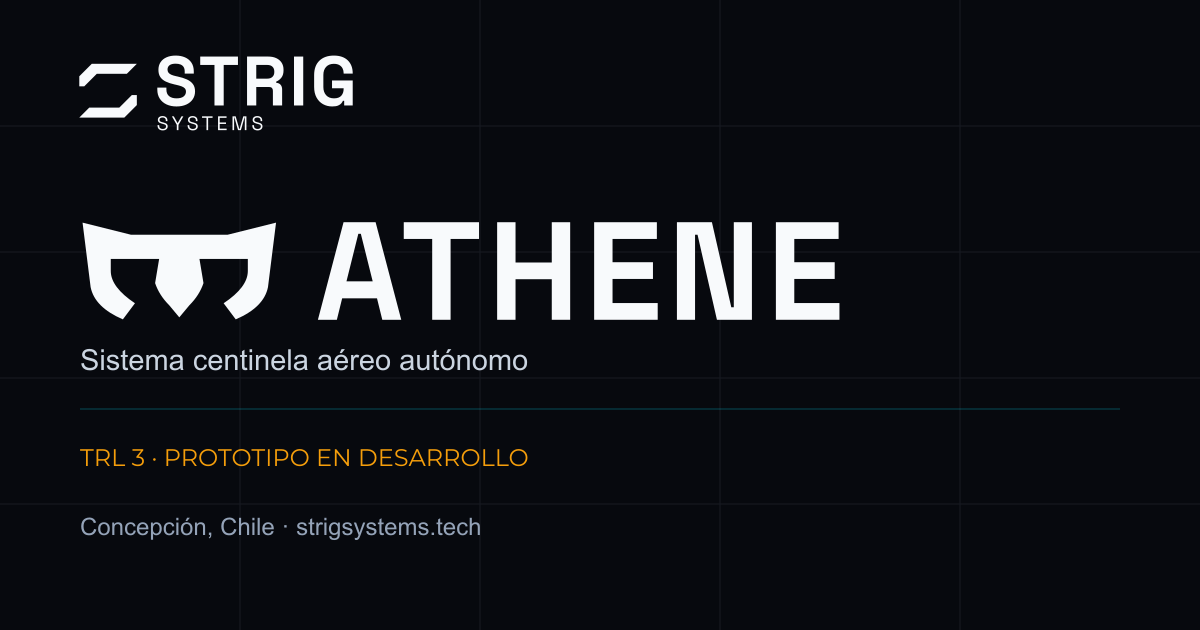
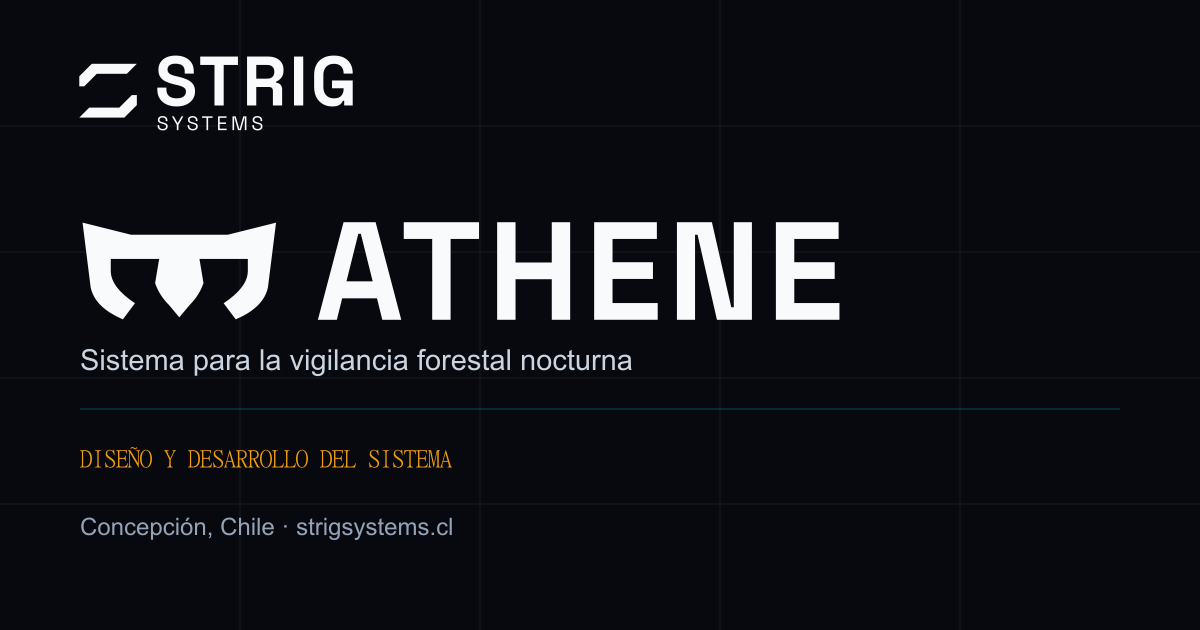
feat(web): publish Athene operating concept and clear project status

Changed region(s): [[0.1542, 0.5429, 0.5242, 0.6032], [0.0617, 0.6937, 0.4317, 0.754], [0.37, 0.8143, 0.4008, 0.8746]]

diff --git a/index.html b/index.html
@@ -19,7 +19,7 @@
   <meta property="og:image" content="https://strigsystems.cl/assets/img/brand/strig-social.png">
   <meta property="og:image:width" content="1200">
   <meta property="og:image:height" content="630">
-  <meta property="og:image:alt" content="Strig Systems · Athene · TRL 3 · Prototipo en desarrollo">
+  <meta property="og:image:alt" content="Strig Systems · Athene · Desarrollo experimental">
 
   <!-- Twitter Card -->
   <meta name="twitter:card" content="summary_large_image">
@@ -35,7 +35,7 @@
   <link rel="preconnect" href="https://fonts.gstatic.com" crossorigin>
   <link href="https://fonts.googleapis.com/css2?family=Outfit:wght@300;400;500;600;700&family=Space+Grotesk:wght@400;500;600;700&family=JetBrains+Mono:wght@400;500;600;700&display=swap" rel="stylesheet">
 
-  <link rel="stylesheet" href="styles.css?v=2.4.5">
+  <link rel="stylesheet" href="styles.css?v=2.4.8">
 
   <!-- Umami Analytics (Privacy-First & Cookie-less) -->
   <script defer src="https://cloud.umami.is/script.js" data-website-id="aa979513-3790-4797-99e5-03d4a57d74ee"></script>
@@ -118,7 +118,7 @@
           <!-- Hero Subtitle -->
           <p class="hero-subtitle" data-i18n="h_desc">Athene es un sistema en desarrollo que utiliza plataformas aéreas autónomas con supervisión humana para apoyar la vigilancia forestal nocturna. Busca detectar presencia de personas e indicios de incendio mediante análisis térmico a bordo y revisión humana de las alertas.</p>
 
-          <p class="hero-status" data-i18n="h_status">Desarrollo experimental · TRL 3</p>
+          <p class="hero-status" data-i18n="h_status">Desarrollo experimental</p>
 
           <!-- Hero Actions -->
           <div class="hero-actions">
@@ -138,27 +138,34 @@
         </div>
         <figure class="concept-panel glass-panel">
           <div class="concept-panel-heading">
-            <span class="concept-kind" data-i18n="h_visual_tag">ARQUITECTURA CONCEPTUAL</span>
+            <span class="concept-kind" data-i18n="h_visual_tag">CONCEPTO DE FUNCIONAMIENTO</span>
             <span class="concept-reference" aria-hidden="true">ATHENE // 01</span>
           </div>
           <h2 class="concept-title" data-i18n="h_visual_title">Un sistema. Tres funciones conectadas.</h2>
-          <img class="concept-diagram" src="assets/img/tech/athene-architecture.svg?v=2.4.3" width="720" height="460" alt="" decoding="async">
+          <div class="concept-scene">
+            <img class="concept-diagram" src="assets/img/tech/athene-concept-1200.webp" width="1200" height="896" alt="" decoding="async">
+            <svg class="concept-scene-overlay" viewBox="0 0 2400 1792" aria-hidden="true" focusable="false">
+              <defs><marker id="concept-arrow-hero" viewBox="0 0 10 10" refX="8" refY="5" markerWidth="5" markerHeight="5" orient="auto"><path d="M2 1 8 5 2 9" fill="none" stroke="#68d7e4" stroke-width="1.6"/></marker></defs>
+              <path class="concept-information-link" d="M2030 734V816Q2030 845 2001 845H1899Q1870 845 1870 874V1017" marker-end="url(#concept-arrow-hero)"/>
+              <g class="concept-scene-markers"><circle cx="540" cy="770" r="44"/><text x="540" y="790">01</text><circle cx="1755" cy="322" r="44"/><text x="1755" y="342">02</text><circle cx="1610" cy="1120" r="44"/><text x="1610" y="1140">03</text></g>
+            </svg>
+          </div>
           <ol class="concept-flow">
             <li><span class="concept-step" aria-hidden="true">01</span><span data-i18n="h_flow_1">Observación aérea</span></li>
             <li><span class="concept-step" aria-hidden="true">02</span><span data-i18n="h_flow_2">Análisis a bordo</span></li>
             <li><span class="concept-step" aria-hidden="true">03</span><span data-i18n="h_flow_3">Revisión humana</span></li>
           </ol>
-          <p class="concept-delivery" data-i18n="h_visual_delivery">Imágenes y alertas para el operador</p>
-          <figcaption data-i18n="h_visual_caption">Ilustración conceptual del flujo de observación, análisis a bordo y revisión humana. No representa el diseño de Noctua ni resultados de pruebas.</figcaption>
+          <p class="concept-delivery" data-i18n="h_visual_delivery">Detección de personas y anomalías térmicas, con revisión humana.</p>
+          <figcaption data-i18n="h_visual_caption">Ilustración generada con IA: aeronave genérica e imágenes térmicas sintéticas. No representa el diseño de Noctua ni resultados de pruebas.</figcaption>
         </figure>
       </section>
 
       <section class="project-stages" aria-labelledby="project-stages-title">
         <h2 id="project-stages-title" class="section-kicker" data-i18n="h_stage_label">ESTADO DEL PROYECTO</h2>
         <ol class="project-stages-grid">
-          <li><h3 data-i18n="h_stage_now">Hoy · TRL 3</h3><p data-i18n="h_stage_now_desc">Preparación de integración y primeras pruebas.</p></li>
-          <li><h3 data-i18n="h_stage_next">Próximo · Demostración 2027</h3><p data-i18n="h_stage_next_desc">Evaluación conjunta de los componentes.</p></li>
-          <li><h3 data-i18n="h_stage_future">Evolución · Aeronave y estación</h3><p data-i18n="h_stage_future_desc">Noctua y Nest como desarrollos futuros.</p></li>
+          <li><h3 data-i18n="h_stage_now">Hoy · Diseño y desarrollo</h3><p data-i18n="h_stage_now_desc">Definición de arquitectura y desarrollo de software.</p></li>
+          <li><h3 data-i18n="h_stage_next">Siguiente hito · Integración y pruebas</h3><p data-i18n="h_stage_next_desc">Evaluar el funcionamiento conjunto de los componentes.</p></li>
+          <li><h3 data-i18n="h_stage_future">Evolución · Noctua y Nest</h3><p data-i18n="h_stage_future_desc">Aeronave y estación previstas para la evolución del sistema.</p></li>
         </ol>
       </section>
 
@@ -518,7 +525,7 @@
 
         <div class="brief-paper-lead">
           <h2 id="brief-doc-title" class="brief-h1" data-i18n="eb_h1">Observación aérea para la vigilancia forestal nocturna</h2>
-          <p class="brief-summary" data-i18n="eb_summary">Athene es un sistema en desarrollo experimental (TRL 3 declarado) para apoyar la vigilancia forestal nocturna con plataformas aéreas autónomas y supervisión humana. Estamos preparando la integración y las primeras pruebas.</p>
+          <p class="brief-summary" data-i18n="eb_summary">Athene es un sistema en desarrollo experimental para apoyar la vigilancia forestal nocturna con plataformas aéreas autónomas y supervisión humana. Estamos preparando la integración y las primeras pruebas.</p>
         </div>
 
         <div class="brief-paper-grid">
@@ -564,6 +571,6 @@
     </div>
   </div>
 
-  <script src="script.js?v=2.4.5"></script>
+  <script src="script.js?v=2.4.8"></script>
 </body>
 </html>

diff --git a/script.js b/script.js
@@ -39,22 +39,22 @@ const translations = {
     h_nav_cta: "Contactar",
 
     // Hero Section
-    h_visual_tag: "ARQUITECTURA CONCEPTUAL",
+    h_visual_tag: "CONCEPTO DE FUNCIONAMIENTO",
     h_visual_title: "Un sistema. Tres funciones conectadas.",
-    h_visual_caption: "Ilustración conceptual del flujo de observación, análisis a bordo y revisión humana. No representa el diseño de Noctua ni resultados de pruebas.",
-    h_visual_delivery: "Imágenes y alertas para el operador",
+    h_visual_caption: "Ilustración generada con IA: aeronave genérica e imágenes térmicas sintéticas. No representa el diseño de Noctua ni resultados de pruebas.",
+    h_visual_delivery: "Detección de personas y anomalías térmicas, con revisión humana.",
     h_flow_1: "Observación aérea",
     h_flow_2: "Análisis a bordo",
     h_flow_3: "Revisión humana",
     h_stage_label: "ESTADO DEL PROYECTO",
-    h_stage_now: "Hoy · TRL 3",
-    h_stage_now_desc: "Preparación de integración y primeras pruebas.",
-    h_stage_next: "Próximo · Demostración 2027",
-    h_stage_next_desc: "Evaluación conjunta de los componentes.",
-    h_stage_future: "Evolución · Aeronave y estación",
-    h_stage_future_desc: "Noctua y Nest como desarrollos futuros.",
+    h_stage_now: "Hoy · Diseño y desarrollo",
+    h_stage_now_desc: "Definición de arquitectura y desarrollo de software.",
+    h_stage_next: "Siguiente hito · Integración y pruebas",
+    h_stage_next_desc: "Evaluar el funcionamiento conjunto de los componentes.",
+    h_stage_future: "Evolución · Noctua y Nest",
+    h_stage_future_desc: "Aeronave y estación previstas para la evolución del sistema.",
     h_capabilities_label: "ARQUITECTURA EN DESARROLLO",
-    h_status: "Desarrollo experimental · TRL 3",
+    h_status: "Desarrollo experimental",
     h_badge: "Semilla Inicia Corfo • IncubaUdeC • Finalistas 7th Gear Challenge - Gearbox UdeC",
     h_eyebrow_tag: "VIGILANCIA AÉREA PARA LA BRECHA NOCTURNA",
     h_title_1: "Los riesgos se mueven rápido.",
@@ -144,7 +144,7 @@ const translations = {
     eb_tag: "RESUMEN DEL PROYECTO 2026-27",
     eb_sub: "Vigilancia forestal nocturna",
     eb_h1: "Observación aérea para la vigilancia forestal nocturna",
-    eb_summary: "Athene es un sistema en desarrollo experimental (TRL 3 declarado) para apoyar la vigilancia forestal nocturna con plataformas aéreas autónomas y supervisión humana. Estamos preparando la integración y las primeras pruebas.",
+    eb_summary: "Athene es un sistema en desarrollo experimental para apoyar la vigilancia forestal nocturna con plataformas aéreas autónomas y supervisión humana. Estamos preparando la integración y las primeras pruebas.",
     eb_b1_title: "1. El desafío",
     eb_b1_p1: "La oscuridad, las quebradas y los sectores interiores del bosque dificultan la observación desde caminos.",
     eb_b1_p2: "Buscamos detectar presencia de personas e indicios de incendio para apoyar la evaluación del operador, sin identificar personas ni determinar su intención.",
@@ -194,22 +194,22 @@ const translations = {
     h_nav_cta: "Contact",
 
     // Hero Section
-    h_visual_tag: "CONCEPTUAL ARCHITECTURE",
+    h_visual_tag: "OPERATING CONCEPT",
     h_visual_title: "One system. Three connected functions.",
-    h_visual_caption: "Conceptual illustration of observation, onboard analysis and human review. It does not represent the Noctua design or test results.",
-    h_visual_delivery: "Images and alerts for the operator",
+    h_visual_caption: "AI-generated illustration: a generic aircraft and synthetic thermal imagery. It does not represent the Noctua design or test results.",
+    h_visual_delivery: "Detection of people and thermal anomalies, with human review.",
     h_flow_1: "Aerial observation",
     h_flow_2: "Onboard analysis",
     h_flow_3: "Human review",
     h_stage_label: "PROJECT STATUS",
-    h_stage_now: "Today · TRL 3",
-    h_stage_now_desc: "Preparing integration and initial tests.",
-    h_stage_next: "Next · 2027 demonstration",
-    h_stage_next_desc: "Testing the components together.",
-    h_stage_future: "Evolution · Aircraft and station",
-    h_stage_future_desc: "Noctua and Nest as future developments.",
+    h_stage_now: "Today · Design and development",
+    h_stage_now_desc: "Defining the architecture and developing software.",
+    h_stage_next: "Next milestone · Integration and testing",
+    h_stage_next_desc: "Assessing how the components work together.",
+    h_stage_future: "Evolution · Noctua and Nest",
+    h_stage_future_desc: "Aircraft and station planned for the future system.",
     h_capabilities_label: "ARCHITECTURE UNDER DEVELOPMENT",
-    h_status: "Experimental development · TRL 3",
+    h_status: "Experimental development",
     h_badge: "Corfo Semilla Inicia Grant • IncubaUdeC • 7th Gear Challenge Finalists - Gearbox UdeC",
     h_eyebrow_tag: "AERIAL SURVEILLANCE FOR THE NIGHTTIME GAP",
     h_title_1: "Risks move fast.",
@@ -299,7 +299,7 @@ const translations = {
     eb_tag: "PROJECT OVERVIEW 2026-27",
     eb_sub: "Nighttime forestry surveillance",
     eb_h1: "Aerial observation for nighttime forestry surveillance",
-    eb_summary: "Athene is a system under experimental development (declared TRL 3) to support nighttime forestry surveillance using autonomous aerial platforms with human supervision. We are preparing integration and initial tests.",
+    eb_summary: "Athene is a system under experimental development to support nighttime forestry surveillance using autonomous aerial platforms with human supervision. We are preparing integration and initial tests.",
     eb_b1_title: "1. The challenge",
     eb_b1_p1: "Darkness, ravines and interior forest areas make observation from roads difficult.",
     eb_b1_p2: "We aim to detect the presence of people and signs of fire to support operator assessment, without identifying individuals or determining their intent.",

diff --git a/terms.html b/terms.html
@@ -96,7 +96,7 @@
         </section>
 
         <section class="legal-section">
-<h2 class="legal-section-title">4. Estado de desarrollo y representaciones</h2><p>Athene se encuentra en desarrollo experimental, con TRL 3 declarado por el proyecto. Estamos preparando la integración física y las primeras pruebas. Las ilustraciones de arquitectura explican funciones previstas; no representan una aeronave integrada, una instalación real ni resultados de ensayos.</p><p>Noctua y Nest son desarrollos futuros. Los objetivos del sistema no constituyen prestaciones demostradas ni garantías de detección, cobertura o prevención de incendios.</p>
+<h2 class="legal-section-title">4. Estado de desarrollo y representaciones</h2><p>Athene se encuentra en desarrollo experimental. Estamos preparando la integración física y las primeras pruebas. Las ilustraciones de arquitectura explican funciones previstas; no representan una aeronave integrada, una instalación real ni resultados de ensayos.</p><p>Noctua y Nest son desarrollos futuros. Los objetivos del sistema no constituyen prestaciones demostradas ni garantías de detección, cobertura o prevención de incendios.</p>
         </section>
 
         <section class="legal-section">

diff --git a/styles.css b/styles.css
@@ -2843,6 +2843,13 @@ body {
 /* ==========================================================================
    Pilot Application Modal & Form (Deep Navy Cyber Glass)
    ========================================================================== */
+.concept-scene { position: relative; margin: 0.75rem 0 0.25rem; }
+.concept-scene .concept-diagram { margin: 0; border-radius: 6px; }
+.concept-scene-overlay { position: absolute; inset: 0; display: block; width: 100%; height: 100%; pointer-events: none; }
+.concept-information-link { fill: none; stroke: #68d7e4; stroke-width: 8; stroke-linecap: round; stroke-linejoin: round; }
+.concept-scene-markers circle { fill: #0b1926; stroke: #7ecbdc; stroke-width: 5; }
+.concept-scene-markers text { fill: #edf5f8; font: 500 56px var(--font-mono); text-anchor: middle; }
+
 body.modal-open {
   overflow: hidden;
 }
@@ -4243,7 +4250,7 @@ body.modal-open {
 }
 
 /* ==========================================================================
-   Hero Status Strip (TRL 3 Badge)
+   Hero Status Strip (Experimental development)
    ========================================================================== */
 .hero-status-strip {
   display: inline-flex;

diff --git a/docs/METODOLOGIA_ILUSTRACION_ARQUITECTURA.md b/docs/METODOLOGIA_ILUSTRACION_ARQUITECTURA.md
@@ -1,6 +1,18 @@
-# Ilustración de arquitectura Athene
+# Ilustración de funcionamiento de Athene
 
-Estado: 2026-10-09. SVG activo: [athene-architecture.svg](../assets/img/tech/athene-architecture.svg). Pieza conceptual de la web, no plano de Noctua ni evidencia de operación. [Plan](PLAN_ESTRATEGICO_MARCA_Y_ASSETS_VISUALES.md) para narrativa; [registro](ASSET_REGISTER.json) para procedencia.
+Estado: 2026-10-15. Ilustración aprobada: imagen Gemini de Tomás en WebP con capa SVG en HTML; publicación autorizada el 2026-10-15 (ADR-0020). SVG anterior [athene-architecture.svg](../assets/img/tech/athene-architecture.svg) preservado como referencia. Pieza conceptual, no plano de Noctua ni evidencia de operación. [Plan](PLAN_ESTRATEGICO_MARCA_Y_ASSETS_VISUALES.md) para narrativa; [registro](ASSET_REGISTER.json) para procedencia.
+
+## Candidata híbrida integrada para revisión
+
+Estado vigente tras indicación posterior de Tomás del 2026-10-15: botón y visor de ampliación retirados, incluida su lógica y estilos. La ilustración permanece en el panel. El derivado de 2400 px se conserva para reutilización y queda fuera del build al no referenciarse desde la página. Las verificaciones de zoom descritas debajo son antecedentes de la versión previa.
+
+Original de 2400 × 1792 px conservado en `docs/visual/originals/athene-concept-gemini-20261015.jpg`. Derivados: `athene-concept-1200.webp` (47.590 bytes) para el panel y `athene-concept-2400.webp` (158.886 bytes) para ampliación. `tools/prepare_concept_illustration.cjs` reproduce las exportaciones y registra procedencia/hashes; no altera creativamente el contenido. El original no se referencia desde la página ni entra al build público.
+
+La capa SVG en `index.html` añade el intercambio de información análisis→consola y referencias 01–03. Raster y capa usan el mismo encuadre 2400 × 1792 y escalan juntos, también al hacer zoom. Nombres de funciones y leyenda son HTML con traducción ES/EN. El raster mantiene la escena, la ampliación gris y los indicadores de rotor; no son un diagrama de protocolos o de despliegue físico. Los diagramas de arquitectura internos tienen otro propósito y no se reemplazan con esta ilustración.
+
+La imagen térmica generada tiene morfología ambigua: no asignar persona, especie o incendio. La leyenda visible identifica aeronave genérica y térmica sintética. No hay capturas propias, equipo integrado ni configuración Noctua acreditados. La revisión contempla composición, ampliación accesible, carga, lectura móvil y alineación de capas; no es validación de ingeniería ni de derechos.
+
+Comprobación de la candidata integrada: ES/EN a 1920/1440/390/320 px; foco, Escape, cierre por fondo, zoom/paneo/reinicio y retorno al botón, modal de resumen existente y fallback sin JS. Raster y SVG mantienen dimensiones y proporción comunes al acercar. Paneles revisados visualmente a 1440/390; ampliación de escritorio revisada. Preflight, i18n y build pasan (21 archivos); build incluye dos WebP y excluye el original y el SVG histórico. Registro de assets con origen/hashes actualizado. Esta comprobación corresponde a la prueba previa; Tomás autorizó publicar posteriormente la versión sin ampliación.
 
 ## Qué debe entenderse
 
@@ -17,15 +29,15 @@ Un VTOL de ala fija observa el territorio con cámara; el computador a bordo ana
 
 No confundir el campo de observación con un láser, ni un vínculo con control autónomo de actuación. Evitar check verde, precisión/confianza inventadas o imágenes falsamente reales. Mantener leyenda conceptual visible en la página ES/EN; metadata SVG no sustituye esa leyenda en una exportación independiente.
 
-## Fuentes y fidelidad
+## Fuentes y fidelidad del SVG anterior
 
 Se consultó `foresight-ai-mvp-2026/docs/01_CONOPS.md`, v0.5.46, §§1.2, 2.3, 4.1, 7.4 y 7.5; decisiones BB/BQ (autoridad humana), BS/BT/BW (evidencia y organización de central/enlace). Es arquitectura pre-MCR y objetivos, no prueba de implementación. No trasladar parámetros internos a la landing ni representar toda la estación robotizada futura como producto construido.
 
 Cuatro imágenes VTOL aportadas por Tomás ayudaron a comprender ala, fuselaje, booms, motores y cámara. Origen/licencia no verificados: no se incrustan, calcan ni atribuyen al proyecto. Mejorar relaciones mecánicas sin copiar una aeronave comercial ni inventar precisión de CAD.
 
-## Base y evolución conservadas
+## Base y evolución conservadas del SVG anterior
 
-La candidata `athene-architecture-astra-candidate-v1.svg` fue generada en una prueba de subagente solicitada por Tomás y elegida como base editable. Se edita incrementalmente, sin regenerar el conjunto cada vez.
+La candidata `athene-architecture-astra-candidate-v1.svg` fue generada en una prueba de subagente solicitada por Tomás y elegida como base editable del SVG anterior. Su evolución incremental permanece disponible como antecedente.
 
 1. Paso 1: limpieza de tres rótulos duplicados; geometría conservada.
 2. Paso 2: soportes/rotores con relaciones mecánicas más comprensibles.
@@ -41,13 +53,25 @@ Hitos anteriores en `assets/img/tech/athene-architecture-step01.svg` a `step04.s
 
 Definir el problema de lectura y el papel de cada objeto antes de dibujar. Conservar composición, proyección oblicua e iluminación; separar objeto, volumen, conexión y rótulo en grupos editables. Primero silueta y profundidad, después detalle que sobreviva al tamaño de uso. Variar un aspecto por ensayo, mostrar antes/después y evaluar en contexto.
 
-SVG sigue siendo la herramienta actual: geometría explícita, paths, gradientes moderados, clipping y grupos; sin necesidad de nueva imagen raster, filtros costosos o render 3D. Inkscape 1.3.2/CLI puede exportar y editar; no hay MCP conectado confirmado. [CLI Inkscape](https://wiki.inkscape.org/wiki/Using_the_Command_Line). [Three.js SVGRenderer](https://threejs.org/docs/pages/SVGRenderer.html) permite proyección pero no equivale a shading/render 3D completo. Blender/CAD quedan para otra fase; no se instaló Blender.
+SVG se mantiene para diagramas e interconexiones editables. La candidata actual usa raster para la escena y SVG/HTML para relaciones y rótulos; no se vectoriza automáticamente el arte generado. Los pasos del SVG anterior permanecen como antecedentes. Inkscape 1.3.2/CLI puede exportar y editar; no hay MCP conectado confirmado. [CLI Inkscape](https://wiki.inkscape.org/wiki/Using_the_Command_Line). [Three.js SVGRenderer](https://threejs.org/docs/pages/SVGRenderer.html) permite proyección pero no equivale a shading/render 3D completo. Blender/CAD quedan para otra fase; no se instaló Blender.
 
 Verificar XML, IDs únicos, referencias internas y ausencia de recursos externos inesperados; renderizar en Chromium y comparar escritorio 1440 y móvil 320, ES/EN. Verificar leyenda visible y ausencia de desbordamiento. El detalle de pantalla puede requerir ampliación en móvil; no afirmar legibilidad de microtexto por pasar un check geométrico. No llamar validación de ingeniería a un render.
 
+## Prioridad propuesta tras revisión a tamaño real — 2026-10-15
+
+La revisión inicial del SVG anterior midió 484 × 309 px en una ventana de 1440 px y 324 × 207 px en una ventana de 390 px. La silueta aérea y los tres momentos se reconocían, pero la tarjeta de evidencia y el contenido del monitor tenían poco tamaño. La candidata híbrida posterior ocupa 484 × 362 y 324 × 242 px, respectivamente; las capturas actuales de `scratch/spot-review-20261015/hero-panel-1440.png` y `hero-panel-390.png` corresponden a esa candidata, no a una prueba con usuarios.
+
+La comparación conserva aeronave, terreno, proyección y motivo térmico. La candidata en `scratch/evidence-review/index.html` amplía la referencia recibida de 56 × 44 a 86 × 62 unidades del SVG, simplifica el monitor a una imagen principal con el mismo indicio y refina la figura humana: ropa mate, un brazo visible, piernas con volumen y silla simplificada. Es una propuesta local, sin sustituir el asset activo. Revisar las candidatas al ancho real de uso, no solo a 720 px. No añadir animación antes de resolver la lectura estática.
+
+La ampliación accesible sí quedó implementada en la página local: botón «Ampliar ilustración», diálogo nativo con título y alcance traducidos, imagen ajustada y zoom al 180 % con desplazamiento nativo. Fondo inerte, bloqueo de scroll, recorrido de foco, Escape/cierre/backdrop, reinicio de zoom y retorno del foco al botón. Sin JavaScript se conserva la imagen de la página y se oculta el botón. No se requiere animación ni librería nueva. Verificado ES/EN en 1440/390 px, teclado, paneo, reapertura, modal de resumen existente y fallback sin JS; preflight, i18n y build público pasan. Capturas locales y prueba en `scratch/evidence-review/` y `scratch/verify-architecture-viewer.cjs`. Sin publicación en esta ronda.
+
+Para nomenclatura, evaluar con Tomás «Concepto de funcionamiento» en el panel web: describe la escena ilustrativa y la distingue de los diagramas de contexto/arquitectura lógica usados para discutir ingeniería. No se cambió el título público ni su traducción. Como segunda prioridad de sección, revisar si «Estado del proyecto» distingue con suficiente claridad trabajo actual, siguiente demostración y evolución; conservarlos como objetivos, sin inventar fechas o añadir material técnico reservado.
+
+Tomás aprobó separar «Hoy · Diseño y desarrollo», «Siguiente hito · Integración y pruebas» y «Evolución · Noctua y Nest» y retirar el código TRL de los textos públicos el 2026-10-15 (ADR-0019). La sección quedó actualizada en ES/EN, manteniendo «Desarrollo experimental» y la clasificación interna. La mención específica de demostración prevista en el resumen no se modificó; el bloque de estado utiliza el hito de integración sin fecha.
+
 ## Encargo de revisión independiente reutilizable
 
-Revisar SVG activo, AGENTS, este documento y plan; preservar familia A y narrativa aprobada. Evaluar silueta VTOL, profundidad coherente, cámara, inferencia a bordo, sentido del flujo, evidencia térmica y supervisión humana. Priorizar tres defectos observables, justificar cada corrección y proponer una candidata comparada con el control, cambiando una variable por vez. No añadir especificaciones, sensores o capacidades sin fuente. Señalar preguntas de decisión antes de cambiar significado. Entregar límites y pruebas, sin publicación ni instalación automática. Usar Astra sólo para encargos puntuales explícitamente solicitados; no es necesario para cada edición.
+Revisar la candidata híbrida activa localmente, el SVG anterior, AGENTS, este documento y plan; preservar identidad vigente y narrativa aprobada. Evaluar silueta VTOL, profundidad coherente, cámara, inferencia a bordo, sentido del flujo, evidencia térmica y supervisión humana. Priorizar tres defectos observables, justificar cada corrección y proponer una candidata comparada con el control, cambiando una variable por vez. No añadir especificaciones, sensores o capacidades sin fuente. Señalar preguntas de decisión antes de cambiar significado. Entregar límites y pruebas, sin publicación ni instalación automática. Usar Astra sólo para encargos puntuales explícitamente solicitados; no es necesario para cada edición.
 
 ## Animación futura: brief y criterio
 

diff --git a/AGENTS.md b/AGENTS.md
@@ -7,9 +7,9 @@ Reglas operativas vigentes, 2026-10-09. Leer el [índice documental](docs/README
 - Portada institucional compacta; no restaurar automáticamente componentes de la experiencia ampliada/dev. Posicionamiento aprobado: «Empresa chilena de ingeniería aeroespacial y sistemas autónomos» (ADR-0011). Colaboración exploratoria con Armada de Chile sin formalizar: no anunciar.
 - Identidad web: revisión del diseñador aportada por Tomás, ADR-0018, derivada de referencias JPEG; usar `assets/img/brand/web/`. Strig es empresa; Athene primer producto. Familia A/H1-R11/R12 permanece como antecedente preservado; B/C sin adopción. No ejecutar el builder A para sobrescribir los derivados vigentes. Masters y fuente tipográfica pendientes; procedencia, compromisos y geometrías en [estudio](docs/ESTUDIO_MARCA_STRIG_ATHENE.md).
 - Narrativa aprobada, equipo y contactos en [plan](docs/PLAN_ESTRATEGICO_MARCA_Y_ASSETS_VISUALES.md). Tomás también es cofundador. No inventar LinkedIn: Carlos/Richard/Tomás tienen URLs suministradas; Ananda sin confirmar. Equipo público: Tomás, Carlos, Ananda y Richard; Pablo retirado de la web por instrucción de Tomás.
-- Estado declarado TRL 3: no afirmar operación comercial ni prestaciones medidas sin fuente. Autonomía histórica contradictoria y otros números son objetivos hasta evidencia aprobada. No usar objetivos como especificación garantizada.
+- Estado interno declarado TRL 3; comunicación pública con «Desarrollo experimental» y trabajo/hitos en lenguaje directo (ADR-0019). No restituir el código TRL a portada, resumen o tarjeta social. No afirmar operación comercial ni prestaciones medidas sin fuente. Autonomía histórica contradictoria y otros números son objetivos hasta evidencia aprobada. No usar objetivos como especificación garantizada.
 - Consultar `docs/ASSET_REGISTER.json`: assets anteriores de origen no verificado no prueban ensayos. Ilustraciones/renders con rótulo cercano y en exports. Sin CAD aprobado no dibujar planos acotados; no afirmar visión térmica a través de suelo/vegetación opaca.
-- SVG de arquitectura activo `assets/img/tech/athene-architecture.svg`: representación conceptual, no diseño de Noctua ni interfaz real. Consultar [método](docs/METODOLOGIA_ILUSTRACION_ARQUITECTURA.md).
+- Ilustración funcional aprobada: `athene-concept-1200.webp` / `2400.webp` con capa SVG en HTML (ADR-0020). Rótulos traducibles y leyenda de generación IA/imagen térmica sintética; no diseño de Noctua ni interfaz real. SVG anterior `assets/img/tech/athene-architecture.svg` preservado como referencia. Consultar [método](docs/METODOLOGIA_ILUSTRACION_ARQUITECTURA.md); publicación autorizada por Tomás el 2026-10-15; panel de 1200 px sin visor y derivado de 2400 px reservado para reutilización.
 - Para Corfo/IncubaUdeC/Red IU leer [biblioteca institucional](docs/brand/institutional/README.md) y manuales. Conservar originales/hashes, sin deformar, recolorear, filtrar, aislar escudo ni inventar Gearbox. Relaciones confirmadas por Tomás; aplicación gráfica pública autorizada por Tomás con validación IU p.18 pendiente (ADR-0014); no suprimir los logos por ese pendiente. La biblioteca mantiene las reglas estrictas; no duplicarlas aquí.
 - Contacto público: `contacto@strigsystems.cl`; no exponer correo personal ni inventar alias individuales. Tomás confirma recepción mediante reenvío de Cloudflare a correos personales; salida SMTP independiente. Tomás hará la transición al dominio .cl: mantener URLs canonical/OG/CNAME .tech hasta esa transición. Cloudflare y GitHub Pages despliegan main; nueva activación FormSubmit y entrega real de formularios pendientes. Sede: Concepción, Chile; no coordenadas geográficas crudas.
 

diff --git a/docs/PLAN_ESTRATEGICO_MARCA_Y_ASSETS_VISUALES.md b/docs/PLAN_ESTRATEGICO_MARCA_Y_ASSETS_VISUALES.md
@@ -14,7 +14,7 @@ La portada pública es compacta: empresa, propósito de Athene, arquitectura con
 
 ## Evidencia y reserva técnica
 
-TRL 3 es el estado declarado por el proyecto; distinguir prueba de concepto de disponibilidad comercial. No publicar alcance, autonomía, viento, latencia o tasas de detección sin fuente y validación aprobadas. La discrepancia histórica 45–60 frente a 90+ minutos permanece sin resolver; no elegir una cifra para rellenar diseño.
+TRL 3 permanece como estado interno declarado por el proyecto; distinguir prueba de concepto de disponibilidad comercial. La comunicación pública usa «Desarrollo experimental» y trabajo/hitos, sin el código TRL (ADR-0019, decisión de Tomás del 2026-10-15). Estado: «Hoy · Diseño y desarrollo» / «Siguiente hito · Integración y pruebas» / «Evolución · Noctua y Nest». Esto no cambia la clasificación de ingeniería. No publicar alcance, autonomía, viento, latencia o tasas de detección sin fuente y validación aprobadas. La discrepancia histórica 45–60 frente a 90+ minutos permanece sin resolver; no elegir una cifra para rellenar diseño.
 
 Assets técnicos anteriores, incluido `vtol_payload.png`, se tratan como origen no verificado. Ilustraciones/renders deben llevar rótulo próximo, también en exports autónomos. Sin CAD aprobado no dibujar planos acotados de Noctua. No atribuir visión a través de suelo o vegetación opaca a un sensor térmico. No incorporar disuasión, sirenas o estrobos sólo porque figuran en documentos históricos. Tomás precisó durante la revisión final: detectar **presencia de personas** e indicios de incendio, sin reconocer identidad. La actividad humana se evalúa en contexto como posible riesgo; no toda presencia implica intención o causalidad. Se recupera esa intención preventiva de `dev`, sin sus cifras o promesas no verificadas.
 
@@ -27,7 +27,7 @@ Invitar a conversación técnica/piloto sin barrera legal intimidante ni cuestio
 | Identidad | Revisión del diseñador incorporada a derivados web (ADR-0018), con A anterior preservada; empresa/producto diferenciados. Contornos reconstruidos de JPEG, masters y fuente pendientes. |
 | Tipografía | Space Grotesk para titulares (700 máximo cargado), Outfit 400/500/600 para cuerpo y secundarios legibles; JetBrains Mono sólo para metadatos breves. |
 | Maquetación | Contenedor general 1200px con padding 24px; ampliar a 1400px fue propuesta, no decisión. Header flexible; proporción óptica Strig principal / Athene secundario. |
-| Arquitectura | `assets/img/tech/athene-architecture.svg`, paso 6 sobre candidata Astra. VTOL, cámara, inferencia, indicio y operador; representación conceptual. |
+| Ilustración funcional | Imagen Gemini aportada por Tomás: WebP de 1200 px y capa SVG editable, con nombres de funciones en HTML, sin visor de ampliación. Leyenda de generación IA e imagen térmica sintética; publicación autorizada el 2026-10-15 (ADR-0020). Derivado de 2400 px reservado para reutilización. SVG anterior de Astra conservado como referencia. |
 | Credenciales | «Finalistas 7th Gear Challenge - Gearbox UdeC». No generar logo Gearbox. |
 | Apoyos | Logos completos de IncubaUdeC y Corfo publicados por autorización de Tomás, con incubación, mentorías y financiamiento explícitos. Validación gráfica IU p.18 pendiente; no declara aprobación institucional (ADR-0014). |
 | Equipo | Tomás Medina (Cofundador · Responsable técnico), Carlos Gutiérrez (Cofundador · Operaciones), Ananda Glaria (Cofundadora) y Richard Solís (Cofundador). Cuatro fichas públicas. |

diff --git a/docs/adr/0020-hybrid-operating-concept-illustration.md b/docs/adr/0020-hybrid-operating-concept-illustration.md
@@ -1,0 +1,31 @@
+# ADR-0020: Ilustración de funcionamiento con base raster y capa vectorial
+
+## Estado
+Aceptado. Tomás autorizó la integración y, tras revisarla, su publicación en main el 2026-10-15, con texto cercano sobre detección de personas y anomalías térmicas y revisión humana.
+
+## Fecha
+2026-10-15
+
+## Autor / Participantes
+Tomás Medina y Codex.
+
+## Contexto
+Tomás aportó una nueva ilustración generada con Gemini, sin rótulos incrustados, con aeronave, terreno, ampliación de análisis y operador. Su volumen y figura humana aportan una base visual distinta al SVG anterior. Se necesita conservar edición de conexiones, traducción, lectura móvil y ampliación accesible.
+
+## Decisión
+Usar WebP de 1200 px en el panel. Por instrucción posterior de Tomás del 2026-10-15, retirar el botón y visor de ampliación; conservar el derivado de 2400 px para reutilización, sin cargarlo desde la página. Conservar el JPEG original con hash y procedencia; exportar sin alterar su contenido representado. Añadir una capa SVG en HTML con un recorrido de información análisis→consola y referencias 01–03, sin texto técnico incrustado en el raster. Los nombres de funciones y la leyenda son HTML traducible.
+
+El panel se denomina «Concepto de funcionamiento». La escena es una ilustración generada con IA, con aeronave genérica e imágenes térmicas sintéticas. No acredita CAD de Noctua, hardware, capturas propias, clasificación o prestaciones. Los grises de la ampliación y las flechas de rotor forman parte del raster. La forma térmica generada no se interpreta como persona, animal confirmado o incendio.
+
+Se conserva el SVG anterior como referencia. Los diagramas internos de contexto y arquitectura lógica mantienen su propósito de ingeniería; la ilustración no los reemplaza. No se añaden librerías de runtime, animación o especificaciones de enlace.
+
+## Alternativas evaluadas
+- Vectorizar automáticamente la imagen: aumenta complejidad sin recuperar geometría semántica o fidelidad de diseño.
+- Dejar rótulos y flechas dentro del raster: dificulta corrección y traducción; descartado para esta prueba.
+- Continuar solo con el SVG anterior: sigue disponible como antecedente, pero no incorpora la referencia visual que Tomás pidió probar.
+
+## Consecuencias y compromisos
+La base tiene resolución finita y sus formas generadas permanecen sujetas a revisión. Las dos capas deben escalar juntas. Conservar procedencia y leyenda visible; no publicar la fuente original por el empaquetador del sitio. No afirmar revisión independiente de derechos ni exclusividad de la ilustración.
+
+## Criterios de verificación
+Revisión visual en ES/EN y escritorio/móvil. Sin botón, diálogo ni controlador de ampliación. WebP cargado con tamaño esperado; SVG e imagen conservan encuadre común. Build público incluye solo derivados referenciados, sin JPEG original, derivado de 2400 px, documentos o pruebas. Preflight, i18n y diff-check.

diff --git a/docs/CHANGELOG.md b/docs/CHANGELOG.md
@@ -2,6 +2,19 @@
 
 El historial de versiones registra lo ocurrido, no especificaciones vigentes. Consultar el [índice](README.md) y el plan para el estado actual. Los documentos antiguos citados en las versiones están en la copia recuperable local descrita en el índice.
 
+## [2.4.8] — 2026-10-15
+
+- Publicación en main autorizada por Tomás: ilustración híbrida sin ampliación, estado público en lenguaje directo y texto cercano «Detección de personas y anomalías térmicas, con revisión humana», con paridad ES/EN. Sin alternancia animada: segunda escena aún por definir.
+
+### Iteraciones previas a la publicación
+
+- Por indicación de Tomás, retirados botón y visor «Ampliar ilustración», controlador, traducciones y estilos asociados. Imagen y capa SVG del panel conservadas; derivado de detalle disponible para reutilización, fuera del build público.
+- Candidata híbrida integrada localmente a partir de la imagen Gemini de Tomás: original y procedencia preservados, derivados WebP de 48/159 KB, capa SVG de información y referencias, textos ES/EN y ampliación accesible. Ilustración IA/imagen térmica sintética identificadas; SVG anterior conservado. Selección visual/publicación pendientes (ADR-0020 propuesto).
+- Estado público en lenguaje directo: diseño/desarrollo, integración/pruebas y evolución Noctua/Nest. Código TRL retirado de portada, resumen, términos y tarjeta social; madurez interna conservada (ADR-0019). Textos ES/EN alineados. Sin publicación.
+- Ampliación accesible de la ilustración en diálogo nativo: zoom/paneo, navegación por teclado, cierre y retorno de foco; paridad ES/EN y fallback sin JS. Candidata separada para evidencia, monitor y operador; asset activo y estado del proyecto conservados para revisión con Tomás. Sin publicación.
+- Diagramas de trabajo refinados en jerarquía, conexiones y distinción entre usuarios, información de episodios y gestión de misión. Exportaciones anteriores preservadas y verificación ampliada a solapamientos de texto y extremos lógicos.
+- Panel conceptual revisado al tamaño real en escritorio/móvil; documentada la propuesta de priorizar evidencia/pantalla y ampliación accesible. Portada y asset público conservados, sin nueva publicación.
+
 ## Material local del spot — 2026-10-12
 
 - Contexto y arquitectura lógica con límite del sistema, roles externos, responsabilidades e intercambios nombrados; vistas derivadas sin alterar fuentes de ingeniería ni fijar hardware.

diff --git a/docs/adr/0019-public-status-in-plain-language.md b/docs/adr/0019-public-status-in-plain-language.md
@@ -1,0 +1,28 @@
+# ADR-0019: Comunicar el estado público con trabajo e hitos
+
+## Estado
+Aceptado por Tomás en conversación del 2026-10-15: retirar «TRL 3» y usar la propuesta de estado del proyecto.
+
+## Fecha
+2026-10-15
+
+## Autor / Participantes
+Tomás Medina y Codex.
+
+## Contexto
+El nivel TRL exige familiaridad con una escala técnica y se repetía en portada y resumen. Para la audiencia pública se acordó describir trabajo actual, siguiente hito y evolución con lenguaje directo.
+
+## Decisión
+Usar «Hoy · Diseño y desarrollo», «Siguiente hito · Integración y pruebas» y «Evolución · Noctua y Nest», con descripciones ES/EN coherentes. Conservar «Desarrollo experimental» como estado visible. Retirar el código TRL de portada, resumen, términos y tarjeta social activa.
+
+La clasificación interna declarada y la documentación de ingeniería no cambian. La sección comunica próximos trabajos y no acredita integración, disponibilidad comercial o prestaciones. La mención específica de la demostración prevista en el resumen no se modifica por esta decisión; el bloque de estado usa el hito de integración sin fecha.
+
+## Alternativas evaluadas
+- Mantener TRL 3 junto al texto: conserva precisión de escala, pero mantiene jerga y repetición.
+- Retirar toda indicación de madurez: simplifica, pero pierde el contexto de desarrollo experimental; descartada.
+
+## Consecuencias y compromisos
+La lectura pública describe actividades y objetivos. La correspondencia con la clasificación interna debe mantenerse al actualizar etapas futuras. Esta decisión ajusta comunicación; no sustituye registros anteriores de ingeniería ni altera cifras o criterios de aceptación.
+
+## Criterios de verificación
+Paridad ES/EN, ausencia de TRL en los recursos del build público, correspondencia HTML/diccionarios, revisión visual de las tarjetas y tarjeta social, y build público sin material interno. Sin publicación autorizada en esta ronda.
